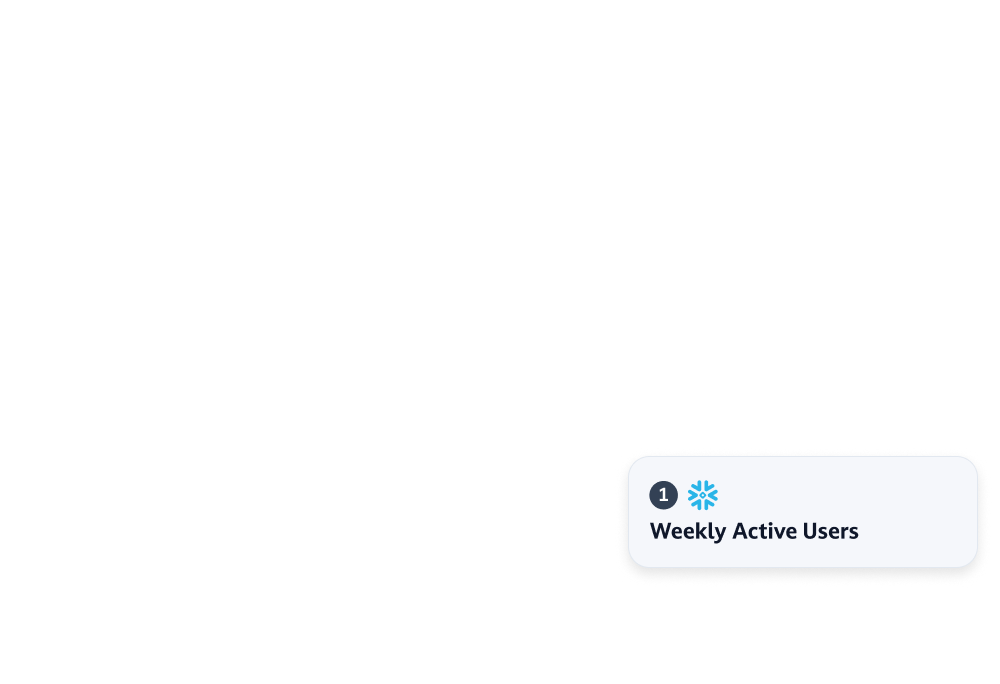
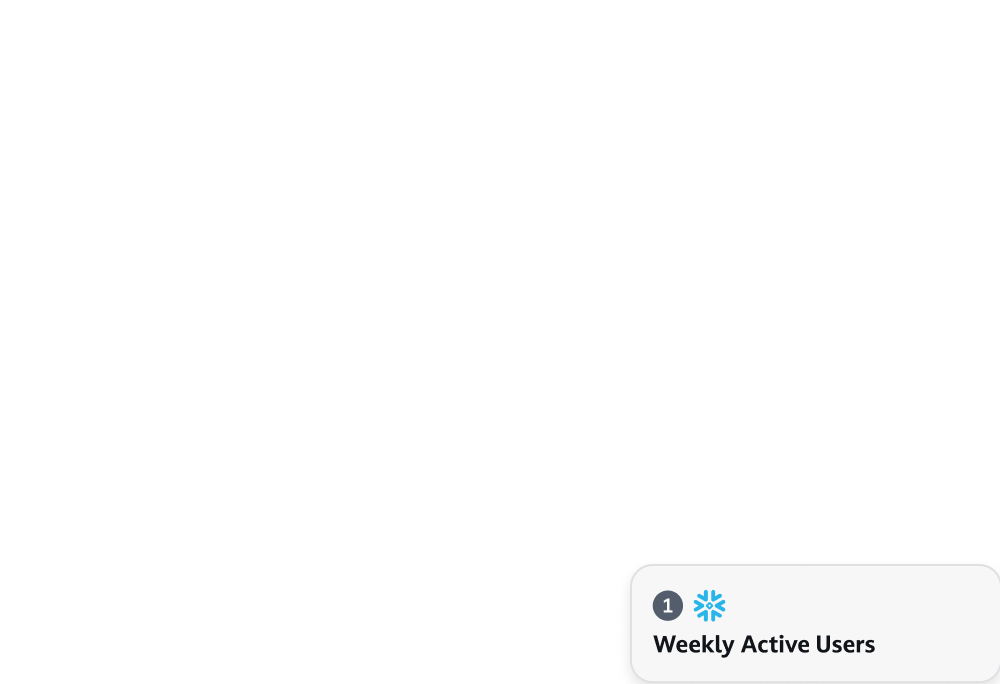
Website/illustrations update (#11299)
* Improved illustrations

* missing files

diff --git a/front/components/home/content/Product/ValuePropSection.tsx b/front/components/home/content/Product/ValuePropSection.tsx
@@ -29,15 +29,21 @@ export function ValuePropSection() {
           }
         >
           <Hover3D
-            depth={-20}
+            depth={0}
             perspective={1000}
             className={classNames("relative")}
           >
-            <Div3D depth={-40}>
+            <Div3D depth={-10}>
               <img src="/static/landing/docexpert/docexpert1.png" />
             </Div3D>
-            <Div3D depth={0} className="absolute top-0">
+            <Div3D depth={30} className="absolute top-0">
               <img src="/static/landing/docexpert/docexpert2.png" />
+            </Div3D>
+            <Div3D depth={50} className="absolute top-0">
+              <img src="/static/landing/docexpert/docexpert3.png" />
+            </Div3D>
+            <Div3D depth={60} className="absolute top-0">
+              <img src="/static/landing/docexpert/docexpert4.png" />
             </Div3D>
           </Hover3D>
         </ImgBlock>
@@ -52,15 +58,21 @@ export function ValuePropSection() {
           }
         >
           <Hover3D
-            depth={-20}
+            depth={0}
             perspective={1000}
             className={classNames("relative")}
           >
-            <Div3D depth={-40}>
+            <Div3D depth={-10}>
               <img src="/static/landing/code/code1.png" />
             </Div3D>
-            <Div3D depth={0} className="absolute top-0">
+            <Div3D depth={30} className="absolute top-0">
               <img src="/static/landing/code/code2.png" />
+            </Div3D>
+            <Div3D depth={50} className="absolute top-0">
+              <img src="/static/landing/code/code3.png" />
+            </Div3D>
+            <Div3D depth={60} className="absolute top-0">
+              <img src="/static/landing/code/code4.png" />
             </Div3D>
           </Hover3D>
         </ImgBlock>
@@ -74,18 +86,24 @@ export function ValuePropSection() {
           }
         >
           <Hover3D
-            depth={-20}
+            depth={0}
             perspective={1000}
             className={classNames("relative")}
           >
-            <Div3D depth={-40}>
+            <Div3D depth={-10}>
               <img src="/static/landing/analysis/analysis1.png" />
             </Div3D>
-            <Div3D depth={0} className="absolute top-0">
+            <Div3D depth={30} className="absolute top-0">
               <img src="/static/landing/analysis/analysis2.png" />
             </Div3D>
-            <Div3D depth={15} className="absolute top-0">
+            <Div3D depth={60} className="absolute top-0">
               <img src="/static/landing/analysis/analysis3.png" />
+            </Div3D>
+            <Div3D depth={50} className="absolute top-0">
+              <img src="/static/landing/analysis/analysis4.png" />
+            </Div3D>
+            <Div3D depth={60} className="absolute top-0">
+              <img src="/static/landing/analysis/analysis5.png" />
             </Div3D>
           </Hover3D>
         </ImgBlock>
@@ -99,15 +117,18 @@ export function ValuePropSection() {
           }
         >
           <Hover3D
-            depth={-20}
+            depth={0}
             perspective={1000}
             className={classNames("relative")}
           >
-            <Div3D depth={-40}>
+            <Div3D depth={-20}>
               <img src="/static/landing/crm/crm1.png" />
             </Div3D>
-            <Div3D depth={0} className="absolute top-0">
+            <Div3D depth={30} className="absolute top-0">
               <img src="/static/landing/crm/crm2.png" />
+            </Div3D>
+            <Div3D depth={50} className="absolute top-0">
+              <img src="/static/landing/crm/crm3.png" />
             </Div3D>
           </Hover3D>
         </ImgBlock>
